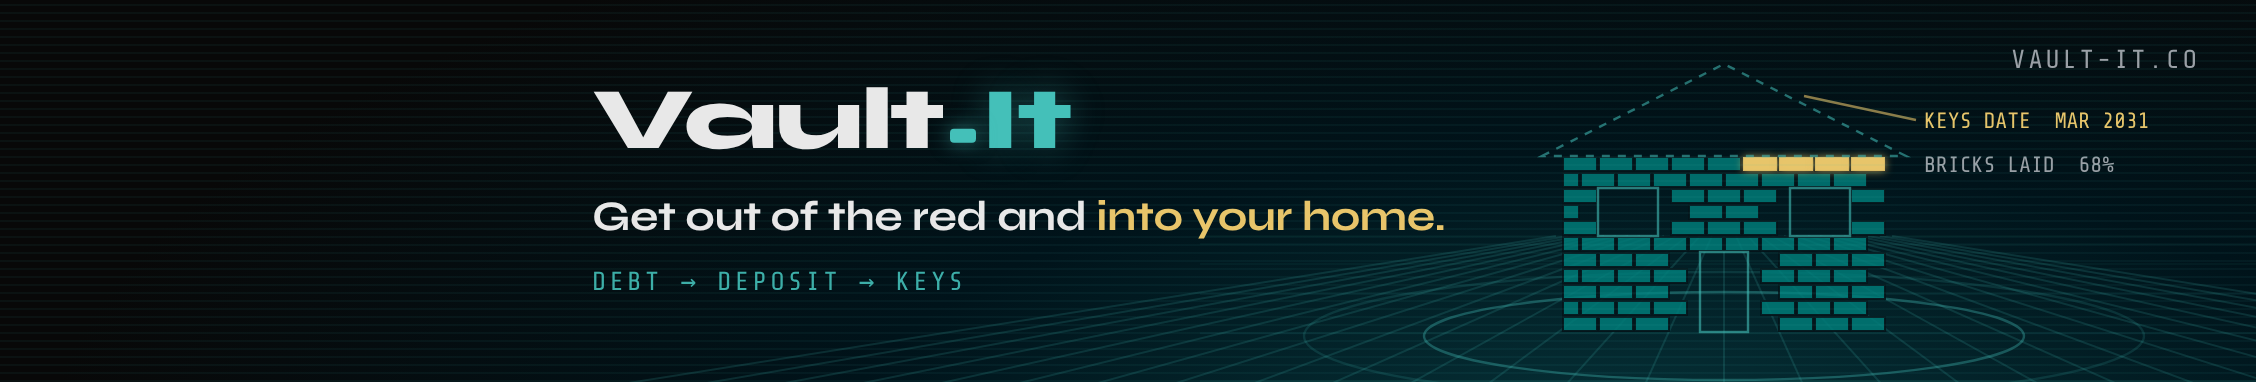
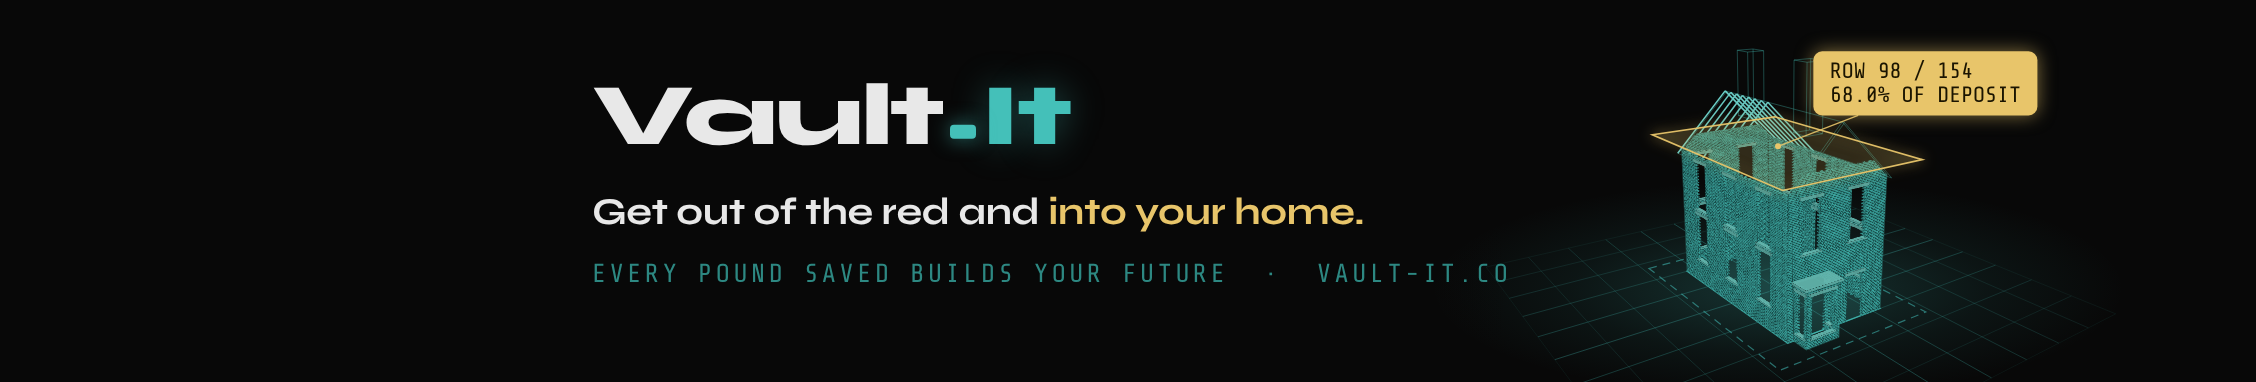
LinkedIn cover: render the real 3D house builder from the brand book
Claude-Session: https://claude.ai/code/session_01Koffvxa3DAHAMgGfLHAhQ4

diff --git a/marketing/linkedin/banner-source.html b/marketing/linkedin/banner-source.html
@@ -2,60 +2,37 @@
 <link href="https://fonts.googleapis.com/css2?family=Syne:wght@700;800&family=DM+Sans:wght@400;500&family=Share+Tech+Mono&display=block" rel="stylesheet">
 <style>
 *{box-sizing:border-box}
-body{margin:0;width:1128px;height:191px;overflow:hidden;background:#080808;font-family:"DM Sans",Arial,sans-serif;color:#E8E8E8}
-.stage{position:absolute;inset:0;background:radial-gradient(70% 160% at 72% 120%,#06343A 0%,#00131A 50%,#080808 100%)}
-.scan{position:absolute;inset:0;background:repeating-linear-gradient(0deg,rgba(68,192,185,.06) 0 1px,transparent 1px 4px)}
+body{margin:0;width:1128px;height:191px;overflow:hidden;background:#080808;color:#E8E8E8}
 canvas{position:absolute;left:0;top:0;width:1128px;height:191px}
-.copy{position:absolute;left:296px;top:38px;width:470px}
+.copy{position:absolute;left:296px;top:36px;width:520px}
 .wm{font-family:Syne,sans-serif;font-weight:800;letter-spacing:-.02em;font-size:44px;display:inline-flex;align-items:baseline;line-height:1}
 .wm b{color:#44C0B9;font-weight:800;text-shadow:0 0 18px rgba(68,192,185,.35)}
 .wm .dot{display:inline-block;width:.3em;height:.17em;background:#44C0B9;border-radius:2px;margin:0 .07em;transform:translateY(-.06em);box-shadow:0 0 10px rgba(68,192,185,.6)}
-h1{font-family:Syne,sans-serif;font-weight:700;font-size:21px;margin:14px 0 0;letter-spacing:-.01em}
+h1{font-family:Syne,sans-serif;font-weight:700;font-size:19px;margin:14px 0 0;white-space:nowrap;letter-spacing:-.01em}
 h1 span{color:#E8C56A}
-.mono{font-family:"Share Tech Mono",monospace;font-size:13px;letter-spacing:.14em;text-transform:uppercase;color:#44C0B9;margin-top:12px;opacity:.9}
-.url{position:absolute;right:28px;top:22px;font-family:"Share Tech Mono",monospace;font-size:13px;letter-spacing:.12em;color:#9AA0A6}
+.mono{font-family:"Share Tech Mono",monospace;font-size:13px;letter-spacing:.14em;text-transform:uppercase;color:#2D8882;margin-top:12px}
+.url{position:absolute;right:26px;top:20px;font-family:"Share Tech Mono",monospace;font-size:12px;letter-spacing:.12em;color:#9AA0A6}
 </style></head><body>
-<div class="stage"></div><canvas id="c" width="2256" height="382"></canvas><div class="scan"></div>
+<canvas id="c" width="2256" height="382"></canvas>
 <div class="copy">
  <div class="wm">Vault<span class="dot"></span><b>It</b></div>
  <h1>Get out of the red and <span>into your home.</span></h1>
- <div class="mono">Debt &rarr; deposit &rarr; keys</div>
+ <div class="mono">Every pound saved builds your future &nbsp;·&nbsp; vault-it.co</div>
 </div>
-<div class="url">VAULT-IT.CO</div>
+
+<script src="../../vault-it-3d-engine.js"></script>
 <script>
-document.fonts.load("12px \"Share Tech Mono\"").then(()=>{const c=document.getElementById('c'),x=c.getContext('2d');x.scale(2,2);
-// perspective ground grid on right
-const hx=862,hy=118;
-x.strokeStyle='rgba(68,192,185,.16)';x.lineWidth=1;
-for(let i=-14;i<=14;i++){x.beginPath();x.moveTo(hx+i*6,hy);x.lineTo(hx+i*70,260);x.stroke();}
-for(let j=0;j<8;j++){const t=Math.pow(j/7,1.8);const y=hy+(191-hy+60)*t;x.globalAlpha=.25+.6*t;x.beginPath();x.moveTo(600,y);x.lineTo(1128,y);x.stroke();}
-x.globalAlpha=1;
-// ping ring
-x.strokeStyle='rgba(68,192,185,.35)';x.lineWidth=1.2;x.beginPath();x.ellipse(hx,168,150,22,0,0,Math.PI*2);x.stroke();
-x.strokeStyle='rgba(68,192,185,.15)';x.beginPath();x.ellipse(hx,168,210,32,0,0,Math.PI*2);x.stroke();
-// brick house, isometric-ish front elevation
-const bw=18,bh=8,cols=9,rows=11,left=hx-cols*bw/2,base=166;
-let n=0;const filled=74;
-for(let r=0;r<rows;r++){const off=(r%2)?bw/2:0;
- for(let k=0;k<cols+(r%2?0:0);k++){let bx=left+k*bw-off,w=bw;if(bx<left){w-=left-bx;bx=left}if(bx+w>left+cols*bw)w=left+cols*bw-bx;if(w<=2)continue;
-  const by=base-(r+1)*bh;
-  // door gap
-  if(r<5&&bx+w>hx-12&&bx<hx+12){continue}
-  if(r>=6&&r<=8&&((bx+w>left+18&&bx<left+48)||(bx+w>left+cols*bw-48&&bx<left+cols*bw-18))){continue}
-  n++;const on=n<=filled;const last=n>filled-6&&on;
-  x.fillStyle=last?'rgba(232,197,106,.9)':on?'rgba(0,127,123,.82)':'rgba(68,192,185,.06)';
-  x.strokeStyle=on?'rgba(4,20,26,.9)':'rgba(68,192,185,.28)';x.lineWidth=1;
-  x.fillRect(bx+.5,by+.5,w-1,bh-1);x.strokeRect(bx+.5,by+.5,w-1,bh-1);
-  if(last){x.shadowColor='rgba(232,197,106,.8)';x.shadowBlur=8;x.fillRect(bx+.5,by+.5,w-1,bh-1);x.shadowBlur=0}
- }}
-// roof outline
-const roofY=base-rows*bh;x.strokeStyle='rgba(68,192,185,.55)';x.setLineDash([4,4]);x.lineWidth=1.2;
-x.beginPath();x.moveTo(left-10,roofY);x.lineTo(hx,roofY-46);x.lineTo(left+cols*bw+10,roofY);x.closePath();x.stroke();x.setLineDash([]);
-// door + windows outline
-x.strokeStyle='rgba(68,192,185,.6)';x.strokeRect(hx-12,base-40,24,40);
-x.strokeRect(left+18,base-72,30,24);x.strokeRect(left+cols*bw-48,base-72,30,24);
-// keys date label
-x.font='11px "Share Tech Mono"';x.fillStyle='#E8C56A';x.fillText('KEYS DATE  MAR 2031',hx+100,roofY-14);
-x.strokeStyle='rgba(232,197,106,.6)';x.beginPath();x.moveTo(hx+96,roofY-18);x.lineTo(hx+40,roofY-30);x.stroke();
-x.fillStyle='#9AA0A6';x.fillText('BRICKS LAID  68%',hx+100,roofY+8);
-});</script></body></html>
+const P=+(new URLSearchParams(location.search).get('p')||68)/100;
+const X=+(new URLSearchParams(location.search).get('x')||1180);
+const Z=+(new URLSearchParams(location.search).get('z')||1.05);
+document.fonts.ready.then(()=>{
+ const c=document.getElementById('c'),cx=c.getContext('2d'),W=2256,H=382;
+ cx.fillStyle='#080808';cx.fillRect(0,0,W,H);
+ const Y=+(new URLSearchParams(location.search).get("y")||-30),HH=+(new URLSearchParams(location.search).get("h")||460);const hr={x:X,y:Y,w:W-X,h:HH};
+ const E=window.ViEngine;
+ E.renderHouse(cx,hr,E.houseState({p:P,zoom:Z,theme:'dark',now:0,sweep:false,noPulse:true,noFlash:true,fscale:+(new URLSearchParams(location.search).get("f")||1.3)}));
+ const fg=cx.createLinearGradient(X,0,X+hr.w*.22,0);fg.addColorStop(0,'rgba(8,8,8,1)');fg.addColorStop(1,'rgba(8,8,8,0)');
+ cx.fillStyle=fg;cx.fillRect(X,0,hr.w*.22,H);
+ document.title='done';
+});
+</script></body></html>

diff --git a/marketing/linkedin/linkedin-page-kit.html b/marketing/linkedin/linkedin-page-kit.html
@@ -72,9 +72,9 @@ footer{font-size:13px;color:var(--muted);border-top:1px solid var(--line);paddin
   <div><div class="label">01 · Images</div><h2>Logo and cover</h2></div>
   <p class="intro">On your phone, press and hold an image to save it. Both are also sent to you in the chat as files.</p>
   <div class="asset">
-    <img src="__BANNER__" alt="Vault·It cover banner: wordmark, tagline Get out of the red and into your home, and a brick house being built on a grid">
+    <img src="__BANNER__" alt="Vault·It cover banner: wordmark, tagline Get out of the red and into your home, and the 3D house builder at row 98 of 154, 68% of deposit">
     <div class="meta">COVER · 2256 × 382 px (LinkedIn asks for 1128 × 191, this is 2x so it stays sharp)</div>
-    <p class="note">The text sits centre-left so your logo doesn't cover it on desktop. On mobile LinkedIn crops the edges, so the house may be trimmed.</p>
+    <p class="note">Rendered with the real house builder engine from the brand book, at 68% built. The text sits centre-left so your logo doesn't cover it on desktop. On mobile LinkedIn crops the edges, so the house may be trimmed.</p>
   </div>
   <div class="asset">
     <img class="logo" src="__LOGO__" alt="Vault·It logo mark: a teal V inside a vault dial">
